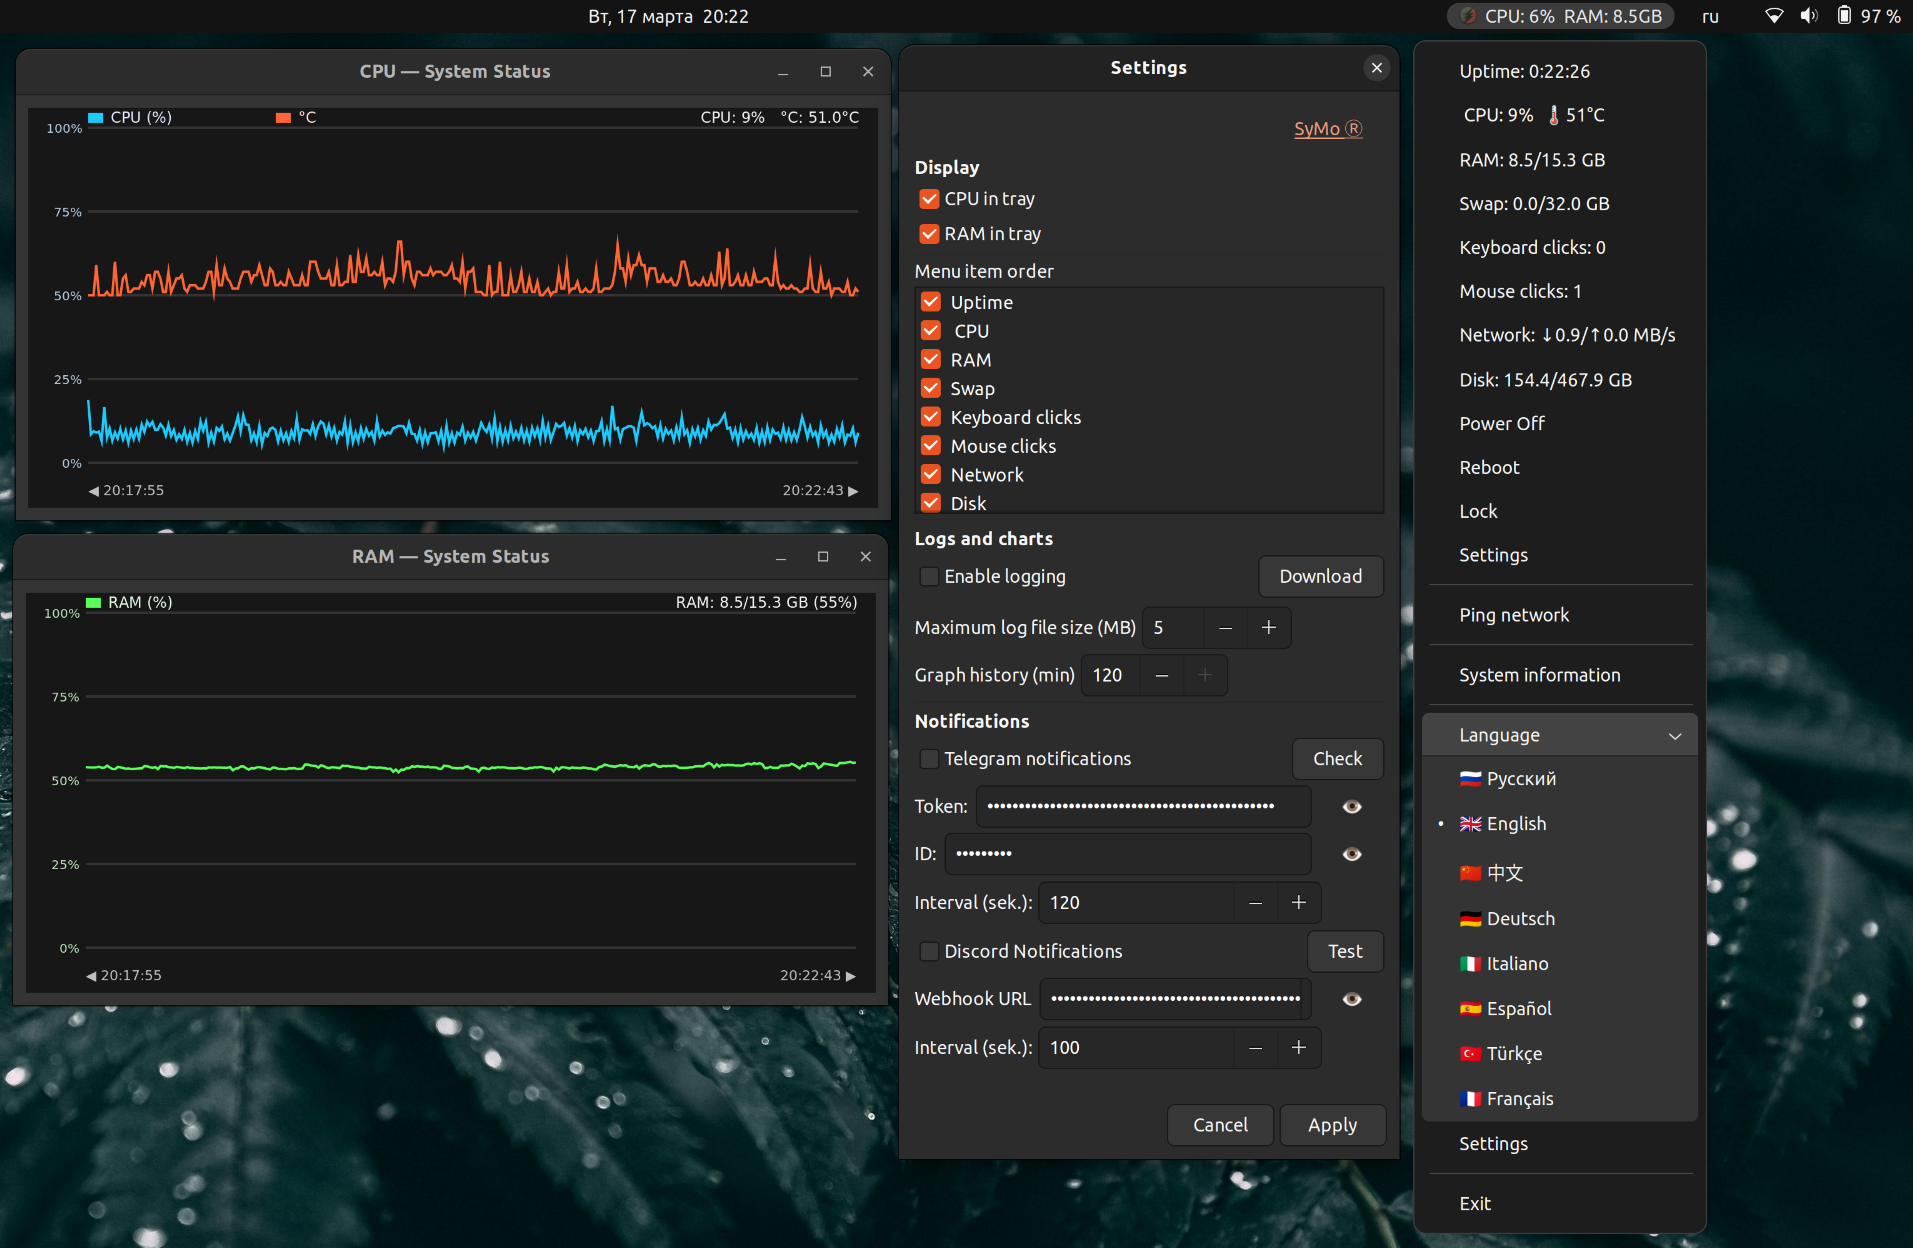
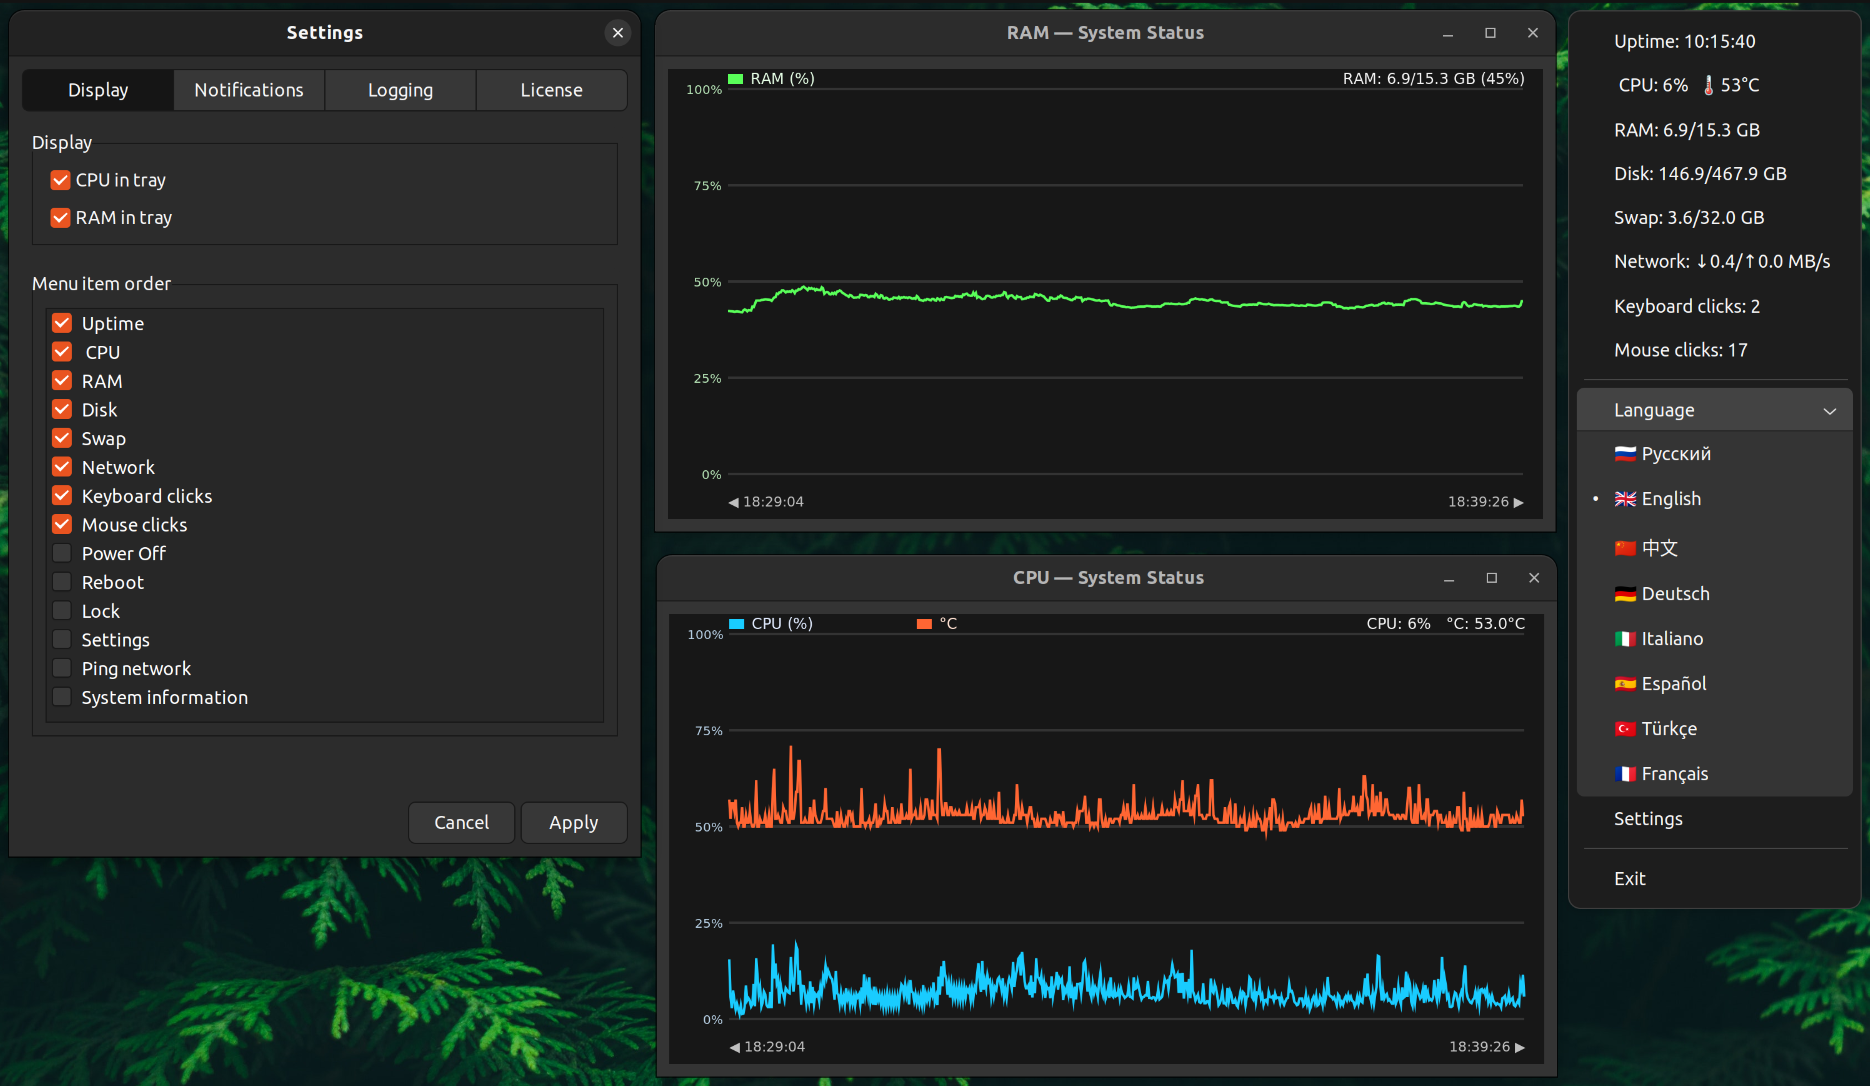
Рабочий проект. В прод смело.

diff --git a/README_RU.md b/README_RU.md
@@ -2,7 +2,7 @@
 
 <img src="logo.png" width="96" alt="Логотип SyMo" />
 
-SyMo — это лёгкое GTK-приложение для Linux-трея: показывает системные метрики, даёт быстрые действия питания и отправляет уведомления в Telegram/Discord.
+SyMo — это лёгкое GTK-приложение для Linux-трея: показывает системные метрики и отправляет уведомления в Telegram/Discord.
 
 ## Минимальное описание проекта
 
@@ -83,17 +83,6 @@ SyMo/
 
 - Linux-окружение рабочего стола с GTK3 + AppIndicator (или Ayatana AppIndicator).
 - Python 3.10+ (рекомендуется).
-
-### Базовые системные пакеты (Debian/Ubuntu)
-
-```bash
-sudo apt update
-sudo apt install -y \
-  python3-gi python3-gi-cairo gir1.2-gtk-3.0 gir1.2-appindicator3-0.1 \
-  gnome-shell-extension-appindicator \
-  build-essential libgirepository1.0-dev gir1.2-glib-2.0 \
-  gobject-introspection pkg-config libcairo2-dev
-```
 
 ### Дополнительные зависимости для `/screenshot` в Telegram
 
@@ -232,7 +221,7 @@ pytest -q
 - Telegram: [@OlegEgoism](https://t.me/OlegEgoism)
 - Email: olegpustovalov220@gmail.com
 
-<img src="img.png" width="560" alt="Превью SyMo" />
+<img src="img.png" width="960" alt="SyMo preview" />
 
 ## Видео на YouTube:
 

diff --git a/README.md b/README.md
@@ -84,17 +84,6 @@ SyMo/
 - Linux desktop environment with GTK3 + AppIndicator (or Ayatana AppIndicator).
 - Python 3.10+ (recommended).
 
-### Base system packages (Debian/Ubuntu)
-
-```bash
-sudo apt update
-sudo apt install -y \
-  python3-gi python3-gi-cairo gir1.2-gtk-3.0 gir1.2-appindicator3-0.1 \
-  gnome-shell-extension-appindicator \
-  build-essential libgirepository1.0-dev gir1.2-glib-2.0 \
-  gobject-introspection pkg-config libcairo2-dev
-```
-
 ### Optional screenshot dependencies (for Telegram `/screenshot`)
 
 SyMo tries multiple screenshot backends. Install at least one of them:
